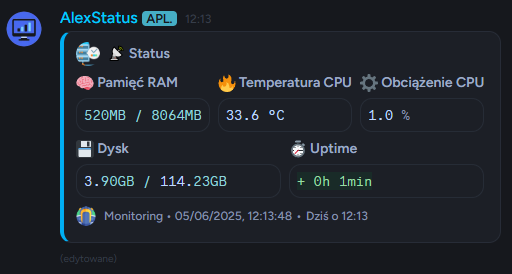
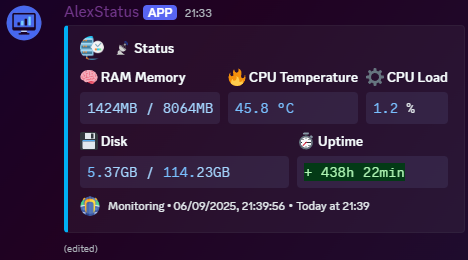
Add auto-run instructions for systemd and update status image

Changed region(s): [[0.0897, 0.0, 1.0, 0.8923], [0.1197, 0.8923, 0.9872, 0.9846], [0.0, 0.0, 0.0897, 0.1846]]

diff --git a/README.md b/README.md
@@ -72,6 +72,60 @@ DISCORD_CHANNEL_ID=your-discord-channel-id
 
 ```
 node index.js
+
+```
+
+## 🚀 Auto-run at Startup (systemd)
+
+Set the bot to start automatically on boot.
+
+1. Create the service file  
+```
+sudo nano /etc/systemd/system/corewatch.service
+```
+
+2. Paste and adjust (set WorkingDirectory, ExecStart path to your Node binary if different, and User)
+```
+[Unit]
+Description=CoreWatch Discord Bot
+After=network.target
+
+[Service]
+WorkingDirectory=/root/CoreWatch
+ExecStart=/usr/bin/node index.js
+Restart=always
+User=root
+Environment=NODE_ENV=production
+
+[Install]
+WantedBy=multi-user.target
+```
+
+3. Enable and start the service
+```
+sudo systemctl daemon-reload
+sudo systemctl enable corewatch.service
+sudo systemctl start corewatch.service
+```
+
+4. Verify it is running
+```
+systemctl status corewatch.service
+```
+
+5. View logs (Ctrl+C to exit)
+```
+journalctl -u corewatch.service -f
+```
+
+To stop:
+```
+sudo systemctl stop corewatch.service
+```
+
+To restart after changes:
+```
+sudo systemctl restart corewatch.service
 ```
 
 ## 📬 Connect 
